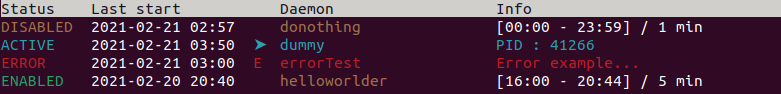
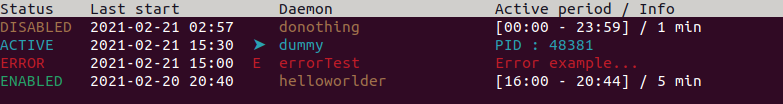
Daemons status label

Changed region(s): [[0.0, 0.0213, 1.0, 0.9574], [0.0, 0.3617, 0.5224, 0.9149]]

diff --git a/thor/Api/Commands/DaemonCommand.php b/thor/Api/Commands/DaemonCommand.php
@@ -64,7 +64,7 @@ final class DaemonCommand extends Command
             ->writeFix('Last start', 17)
             ->writeFix('', 4, STR_PAD_LEFT)
             ->writeFix('Daemon', 24)
-            ->writeFix('Info', 32)
+            ->writeFix('Active period / Info', 32)
             ->mode()
             ->writeln();
         foreach ($daemons as $daemon) {
